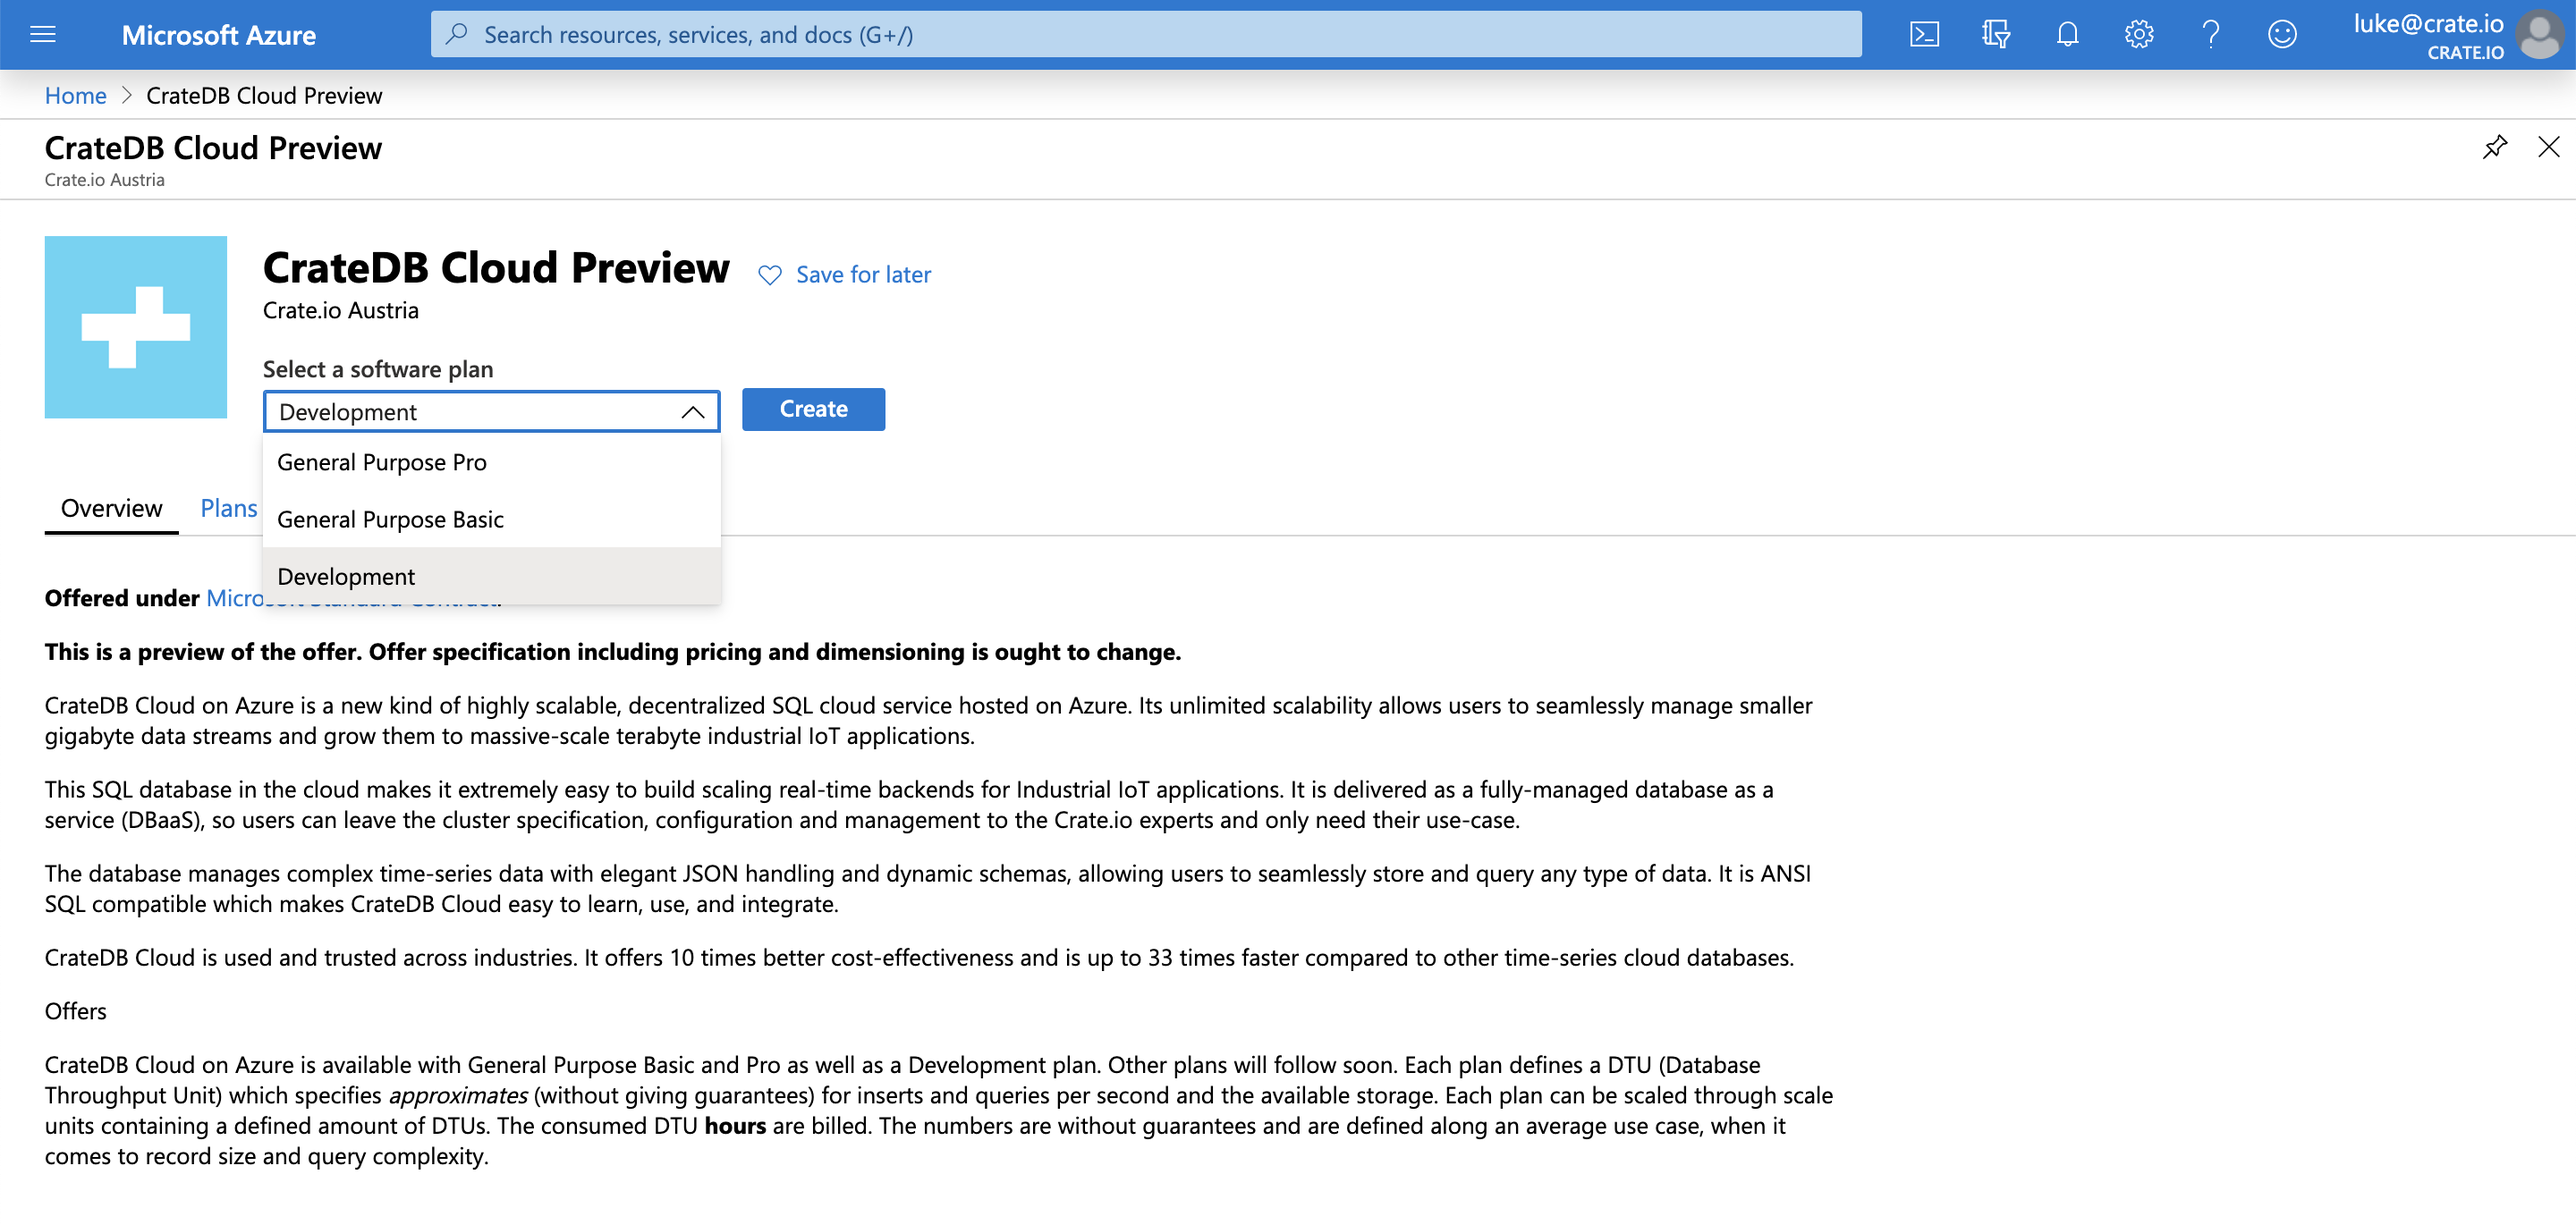
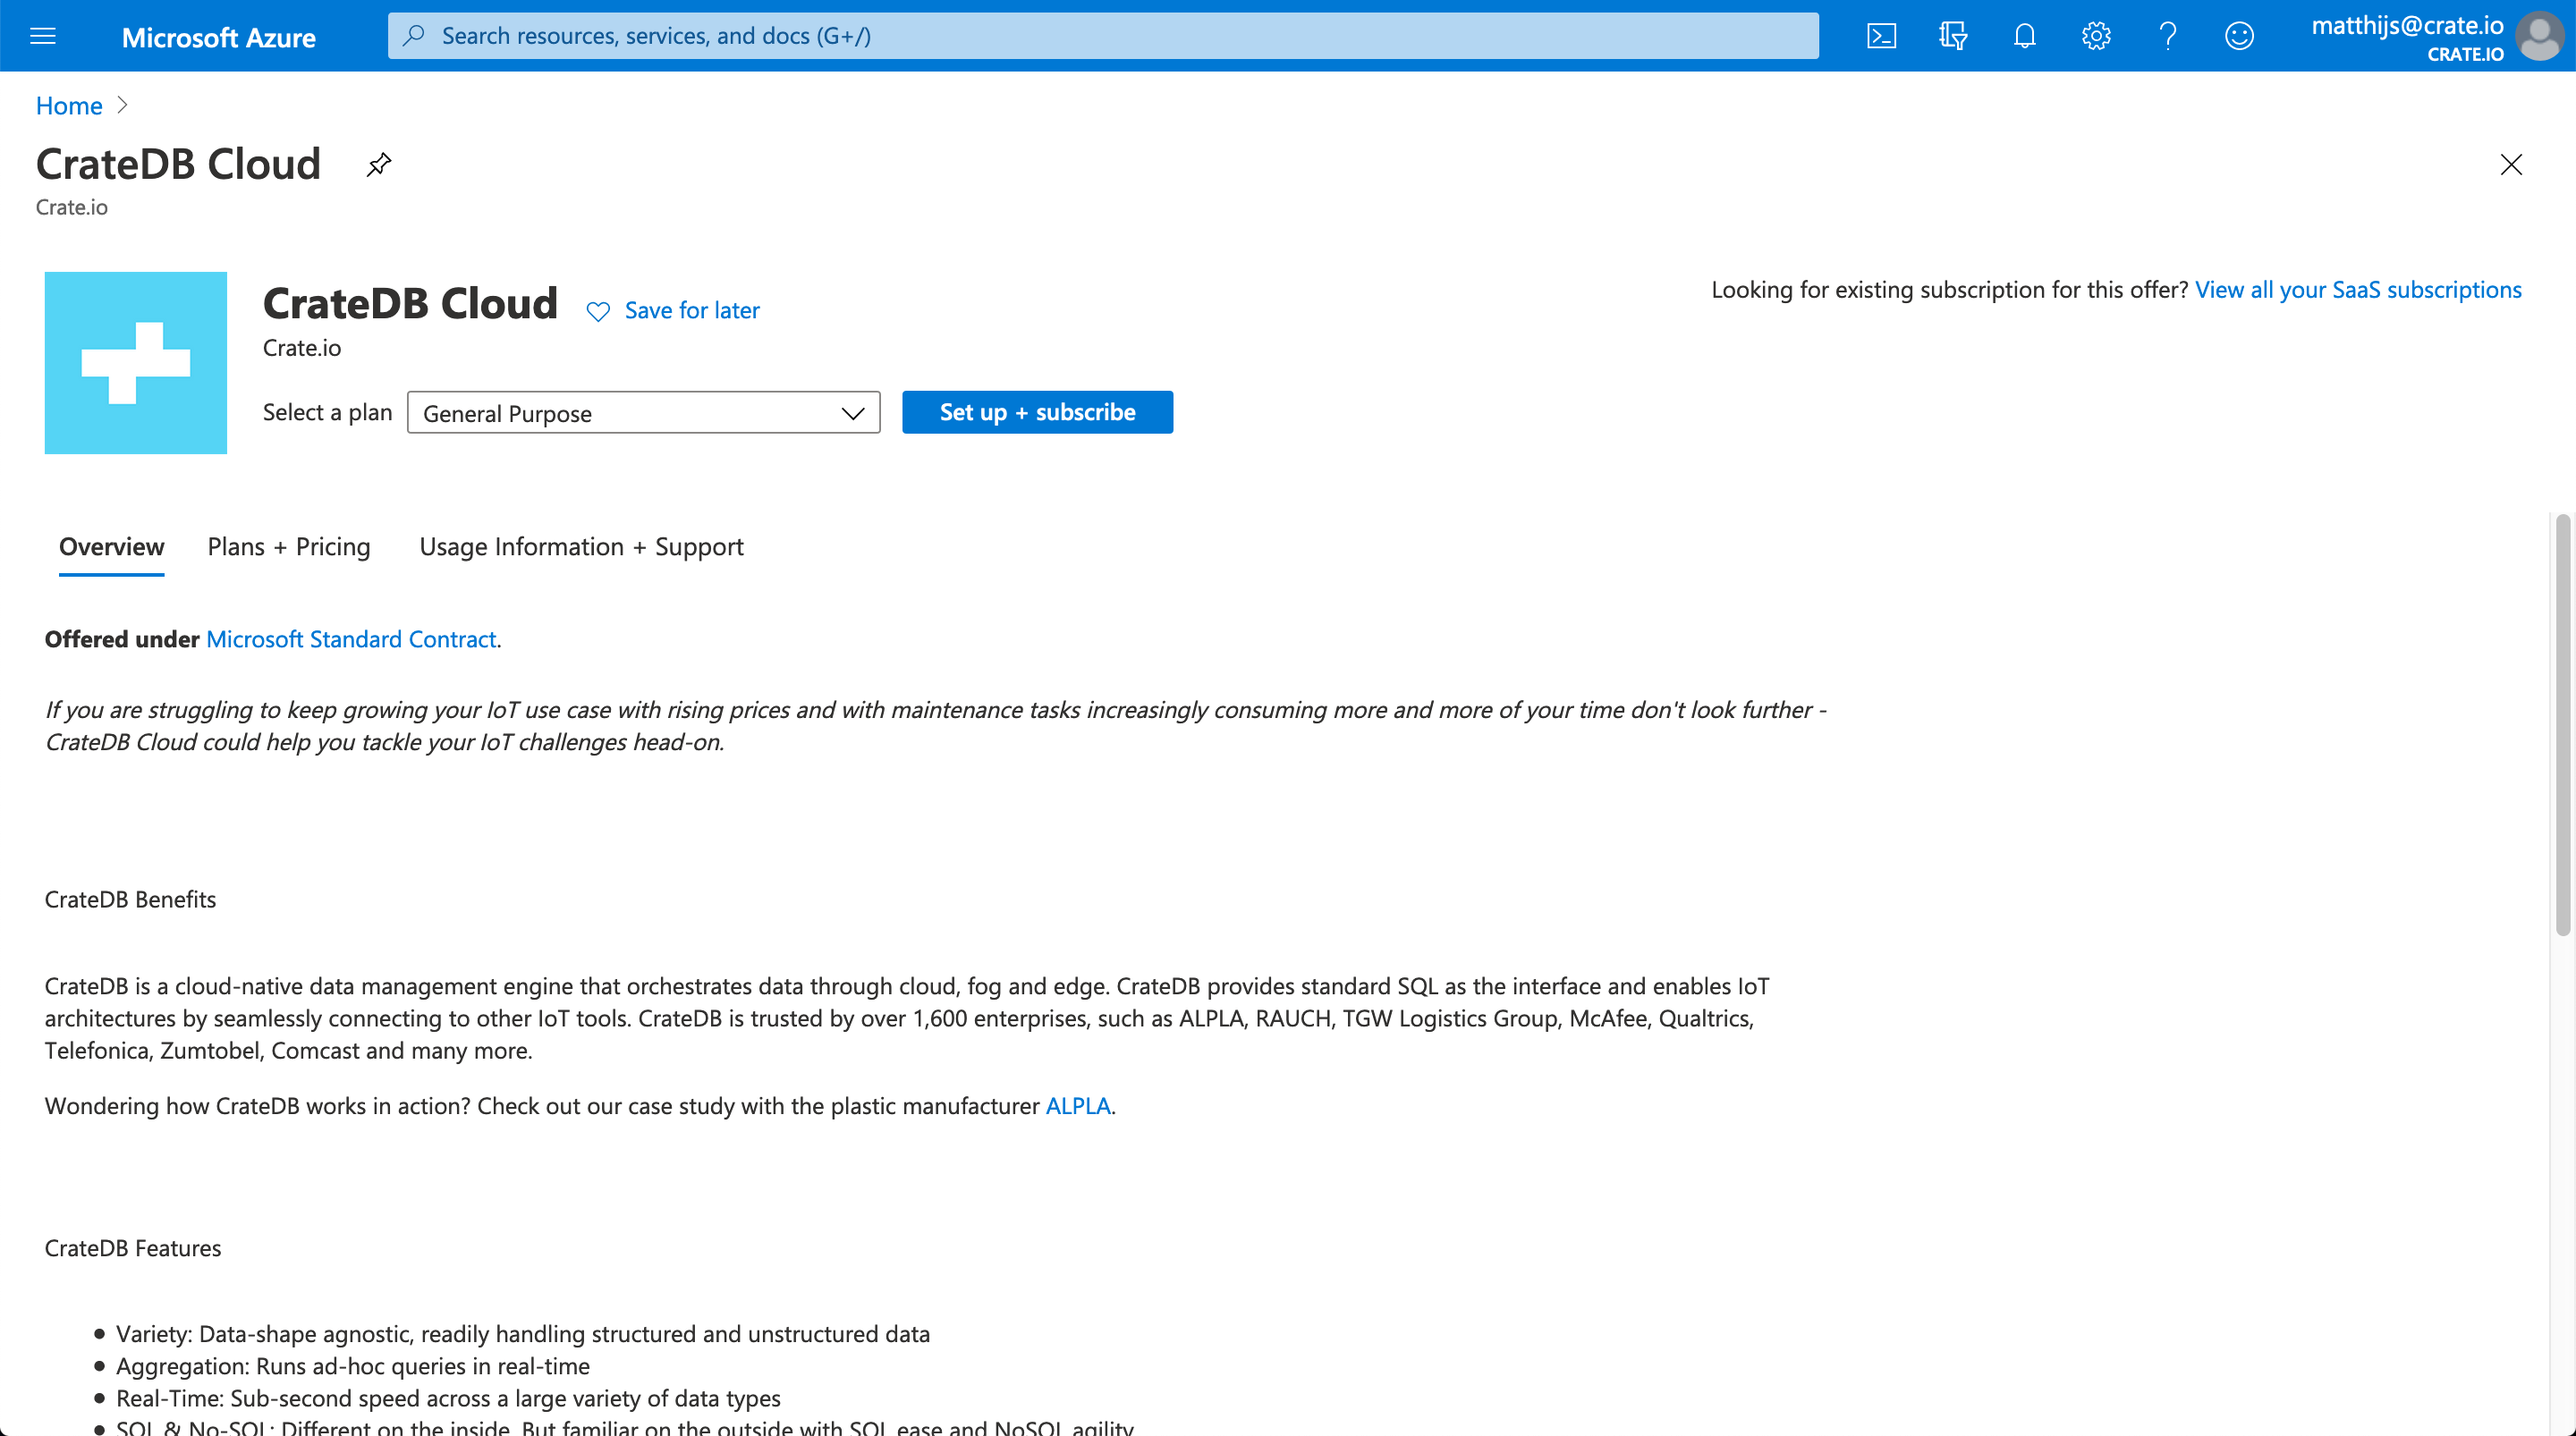
Refresh: update Azure tutorial

diff --git a/docs/cluster-deployment/deploy-to-cluster-azure/signup-azure.rst b/docs/cluster-deployment/deploy-to-cluster-azure/signup-azure.rst
@@ -24,7 +24,11 @@ Using the CrateDB Cloud offer on Azure Marketplace
 Visit the CrateDB Cloud offer on Azure Marketplace via |this link|. Under the
 *Plans + Pricing* tab you will find useful information on available cluster
 configurations. The Development plan is suitable as a demo of CrateDB Cloud.
-For production ready use cases, there is a General Purpose plan.
+For production ready use cases, there is a General Purpose plan, as well as
+IO Optimized and Storage Optimized plans. Finally, there is the CrateDB Cloud
+Contract for paying yearly in advance on the basis of direct negotiation with
+our Sales team. For details on these plans, see our `documentation on
+subscription plans`_.
 
 Once you know which plan suits your needs, click the blue *Get It Now* button
 to the left to take up the CrateDB Cloud offer. After giving consent to
@@ -34,9 +38,9 @@ the plan you have chosen previously.
 
 .. image:: ../../_assets/img/portal-offer.png
 
-Simply select your preferred plan and confirm by clicking *Create*. Note that
-you can still review the plans and pricing again at this stage before creating
-one.
+Simply select your preferred plan and confirm by clicking *Set up + Subscribe*.
+Note that you can still review the plans and pricing again at this stage before
+creating a subscription.
 
 The next page allows you to configure the subscription you have just chosen.
 First, name your subscription. Then choose a subscription type that should be
@@ -69,6 +73,7 @@ wizard and, finally, to deploy your cluster. This will be explained in the
 :ref:`next section of the tutorial <configure-azure-to-cluster>`.
 
 
+.. _documentation on subscription plans: https://crate.io/docs/cloud/reference/en/latest/subscription-plans.html
 .. |this link| raw:: html
 
     <a href="https://azuremarketplace.microsoft.com/en-us/marketplace/apps/crate.cratedbcloud?tab=Overview" target="_blank">this link</a>
